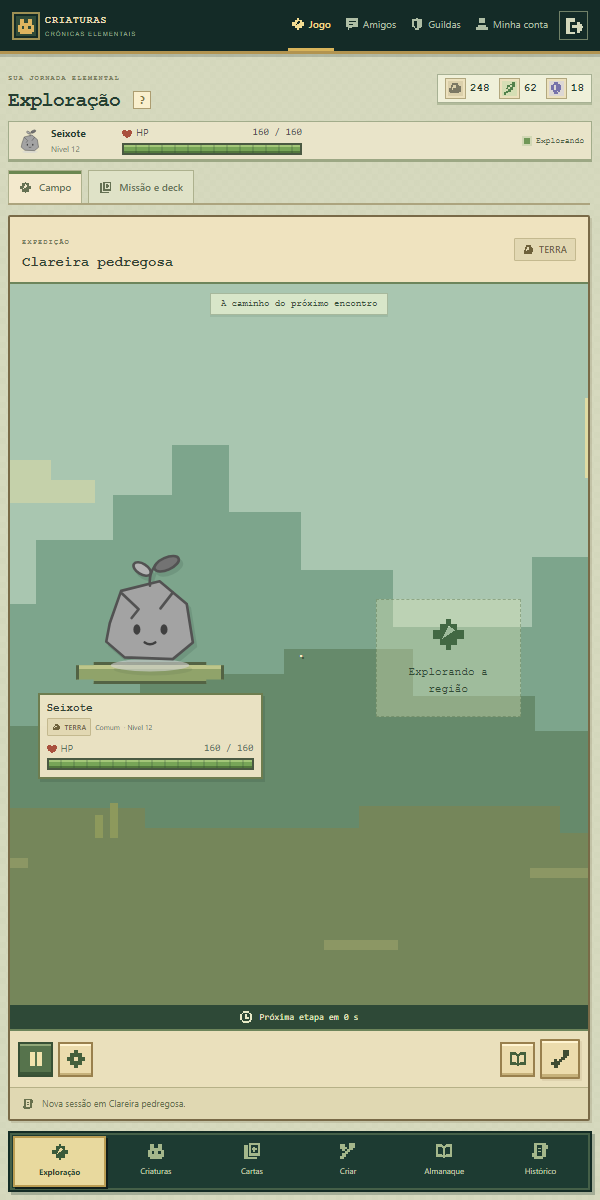
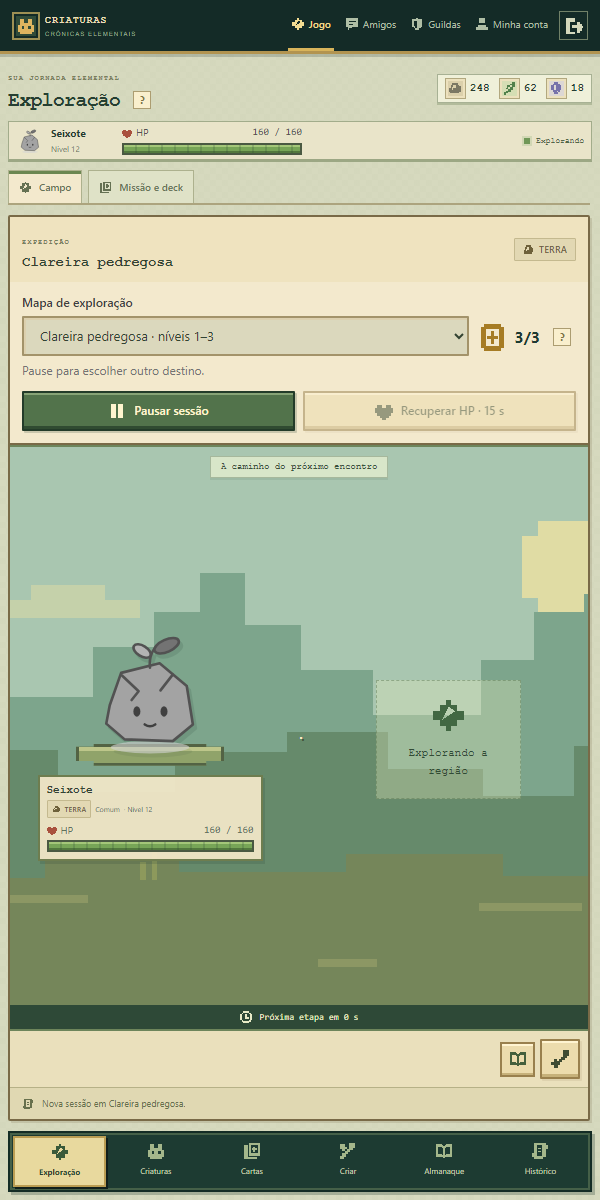
docs(release): Present version 0.4.0 gameplay
Describe guild supports, card stars, recovery and optional creature alerts.
Refresh desktop and mobile screenshots with demonstration data.

diff --git a/README.md b/README.md
@@ -51,9 +51,10 @@ Escolha sua criatura, prepare o deck e decida para onde explorar. Os encontros a
 | :--- | :--- |
 | **Exploração** | Regiões elementais, encontros automáticos e desafios contra bosses para abrir novos caminhos. |
 | **Criaturas** | Níveis, características individuais, treinamento, invocações e evoluções. |
-| **Cartas e criação** | Materiais obtidos na exploração, receitas e cartas para montar seu deck. |
+| **Cartas e criação** | Receitas, essências de boss, materiais elementais e cartas aprimoráveis até cinco estrelas por cópia. |
 | **Almanaque** | Espécies reveladas conforme você encontra e desenvolve suas criaturas. |
-| **Amigos e guildas** | Lista de amigos, presença, conversa privada e participação em guildas. |
+| **Amigos e guildas** | Amigos, conversa privada e guildas de seis jogadores com quatro cargos e criaturas de apoio. |
+| **Recuperação** | Três restauros instantâneos diários por conta e ajuda manual para sua criatura voltar à aventura. |
 | **Progresso ao retornar** | O servidor calcula o avanço da exploração durante sua ausência, dentro dos limites do jogo. |
 
 <p align="center"><strong>37 espécies · 19 cartas · 10 regiões</strong><br /><sub>Conteúdo atual da alfa, sujeito a evolução durante o desenvolvimento.</sub></p>
@@ -82,6 +83,7 @@ Escolha sua criatura, prepare o deck e decida para onde explorar. Os encontros a
 Após a autorização inicial, o Android consulta novas versões **aproximadamente a cada hora** e tenta instalar a atualização disponível. O sistema pode pedir confirmação e ajustar o horário da verificação conforme as condições do aparelho.
 
 Você também pode abrir **Atualizações do aplicativo** para verificar manualmente ou baixar o APK pela [página de versões](https://github.com/Naremancil/online-game-releases/releases).
+Os avisos de encontros difíceis e chamados de aventura podem ser ativados em **Minha conta → Opções**.
 
 ## Dúvidas rápidas
 
